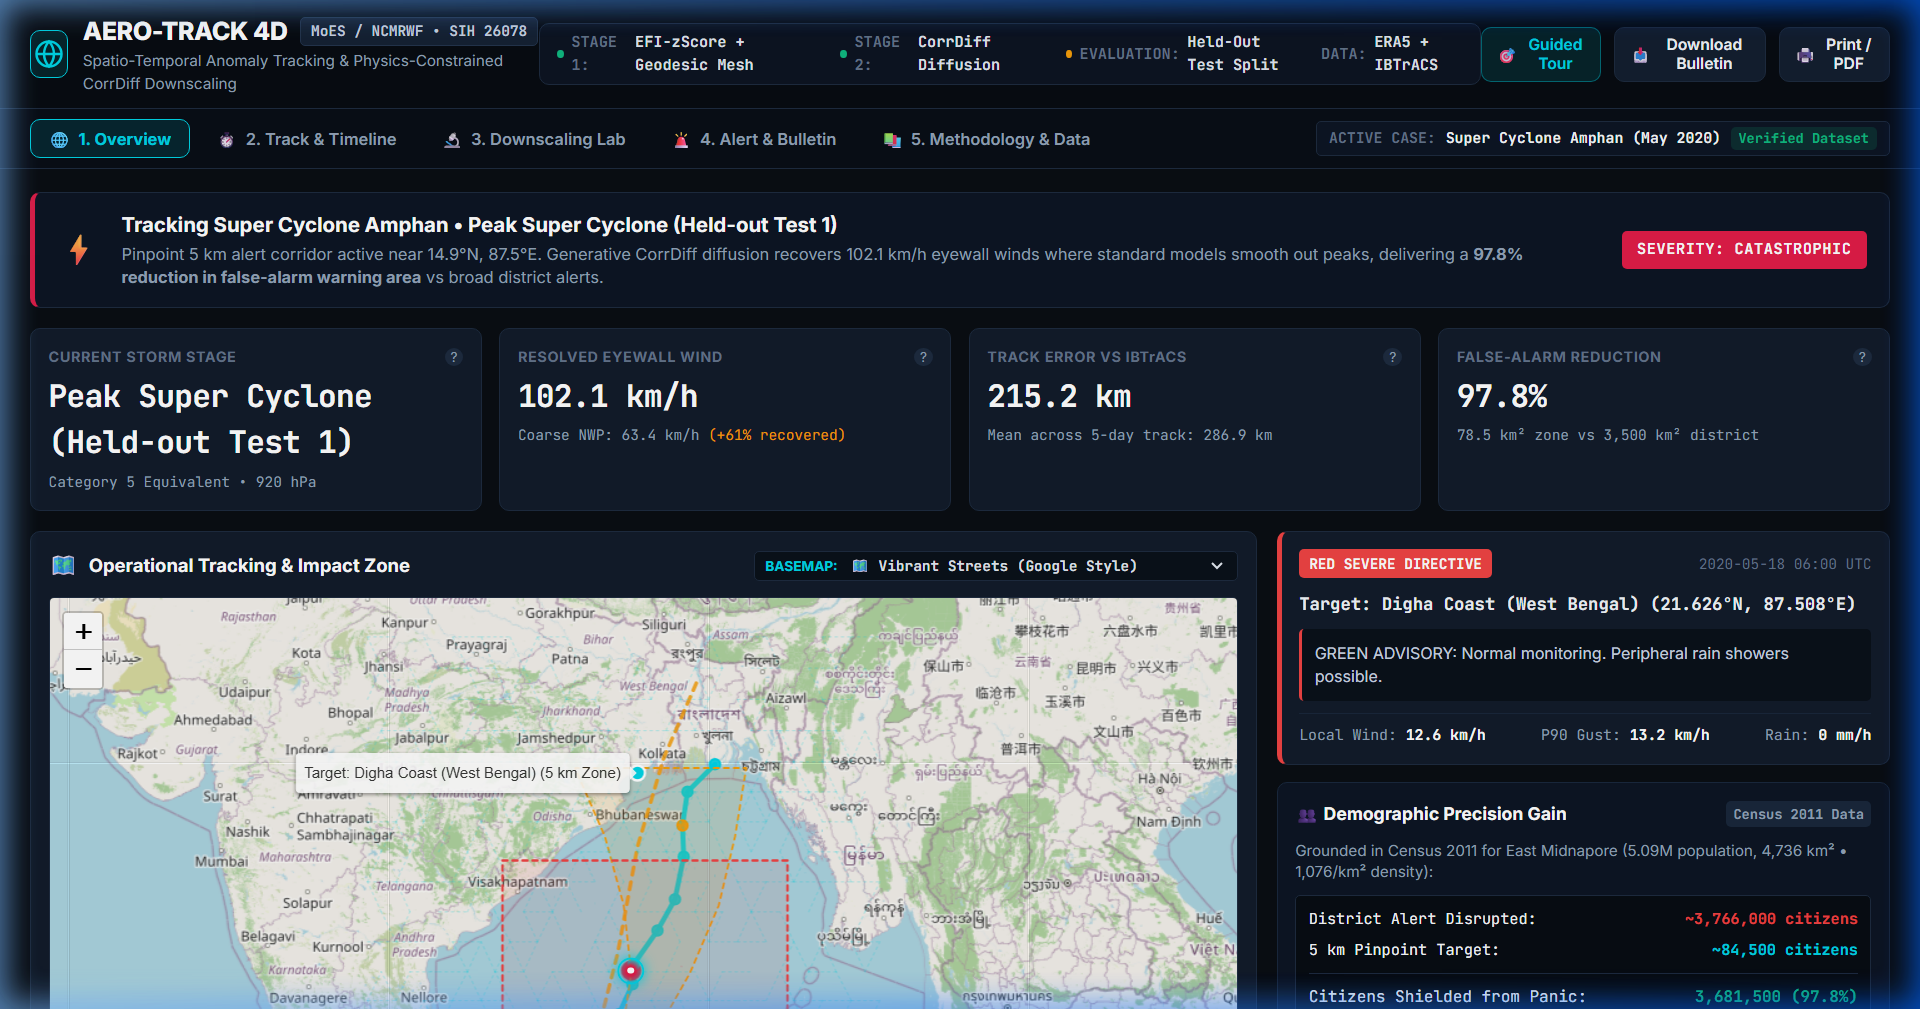
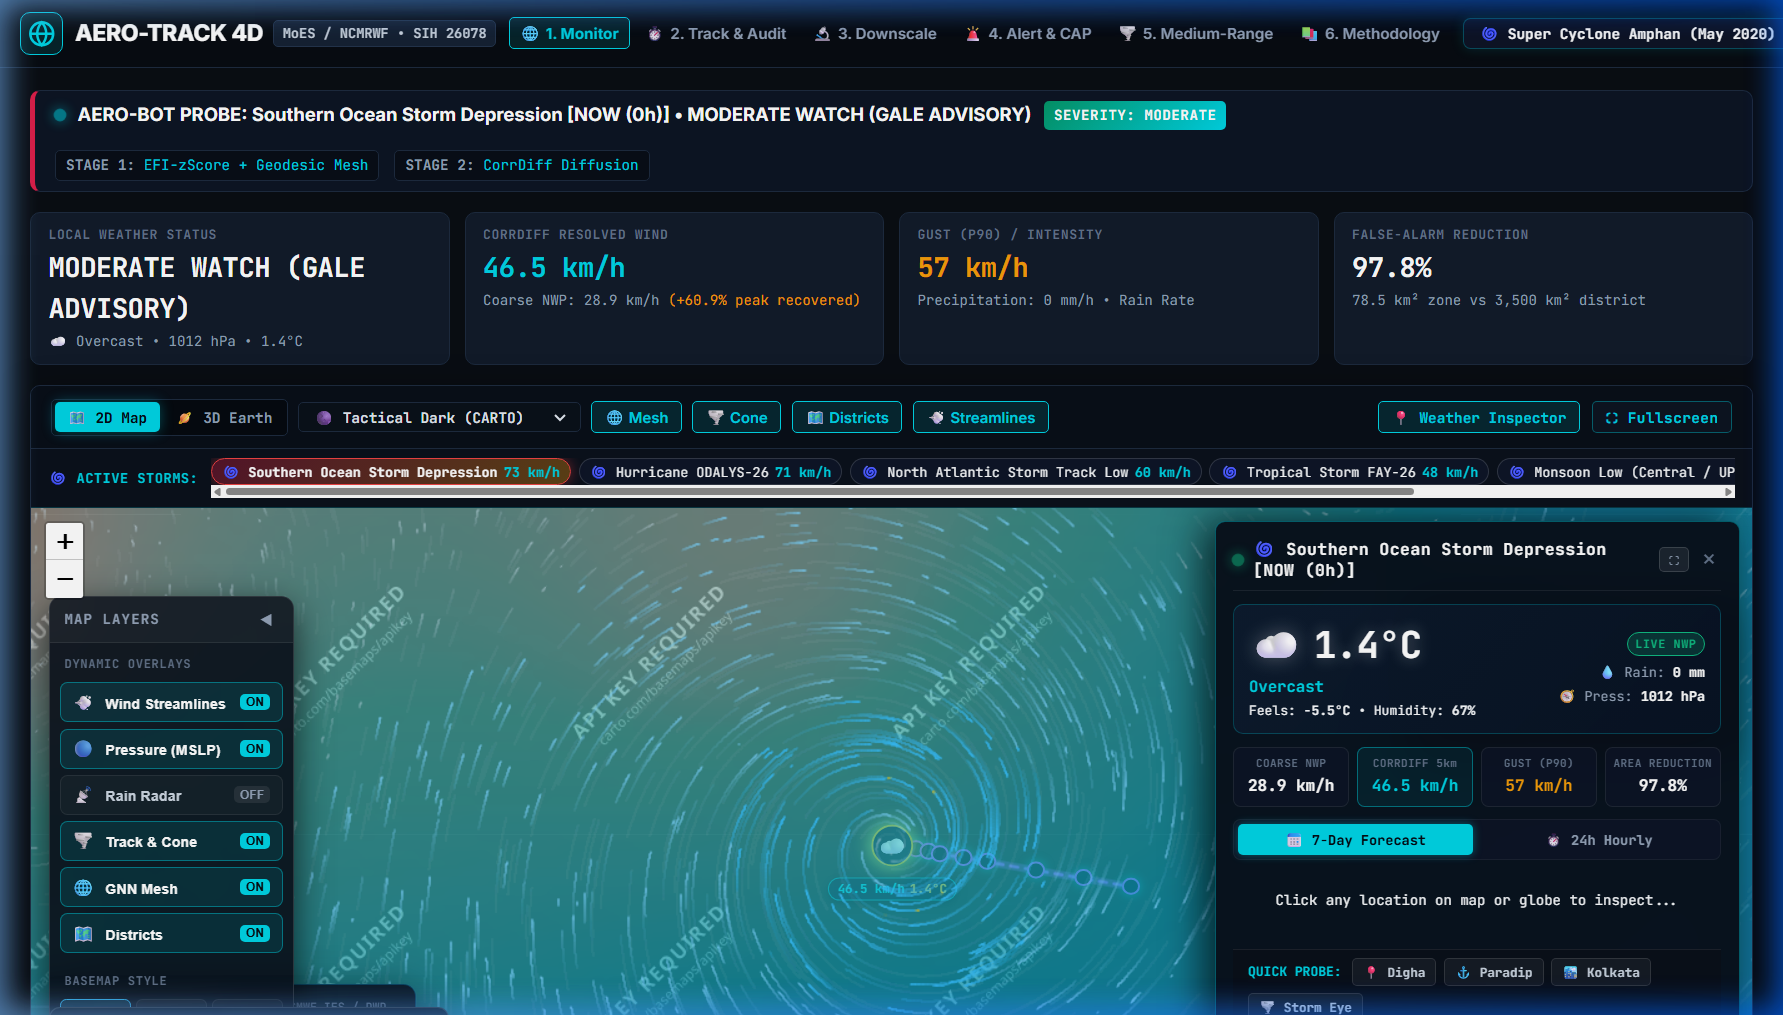
docs(screenshots): Section 5 - regenerate Overview and Ensemble screenshots with CARTO Dark Matter basemap and update visual gallery table

diff --git a/README.md b/README.md
@@ -54,7 +54,7 @@
 
 ## 📸 Operations Room Visual Gallery
 
-| 1. Overview (Vibrant 2D Leaflet Basemap) | 2. 3D Earth Monitor (Terminator Glow & 4D Prism) |
+| 1. Overview (Tactical Dark CARTO Basemap) | 2. 3D Earth Monitor (Terminator Glow & 4D Prism) |
 | :---: | :---: |
 | ![Overview 2D](docs/screenshots/01_overview_dashboard.png) | ![Overview 3D Globe](docs/screenshots/11_3d_earth_satellite_nasa.png) |
 | **3. Track & Timeline (Scrubber & NOAA Table)** | **4. Downscaling Lab (Swipe Slider & Spectral Proof)** |
